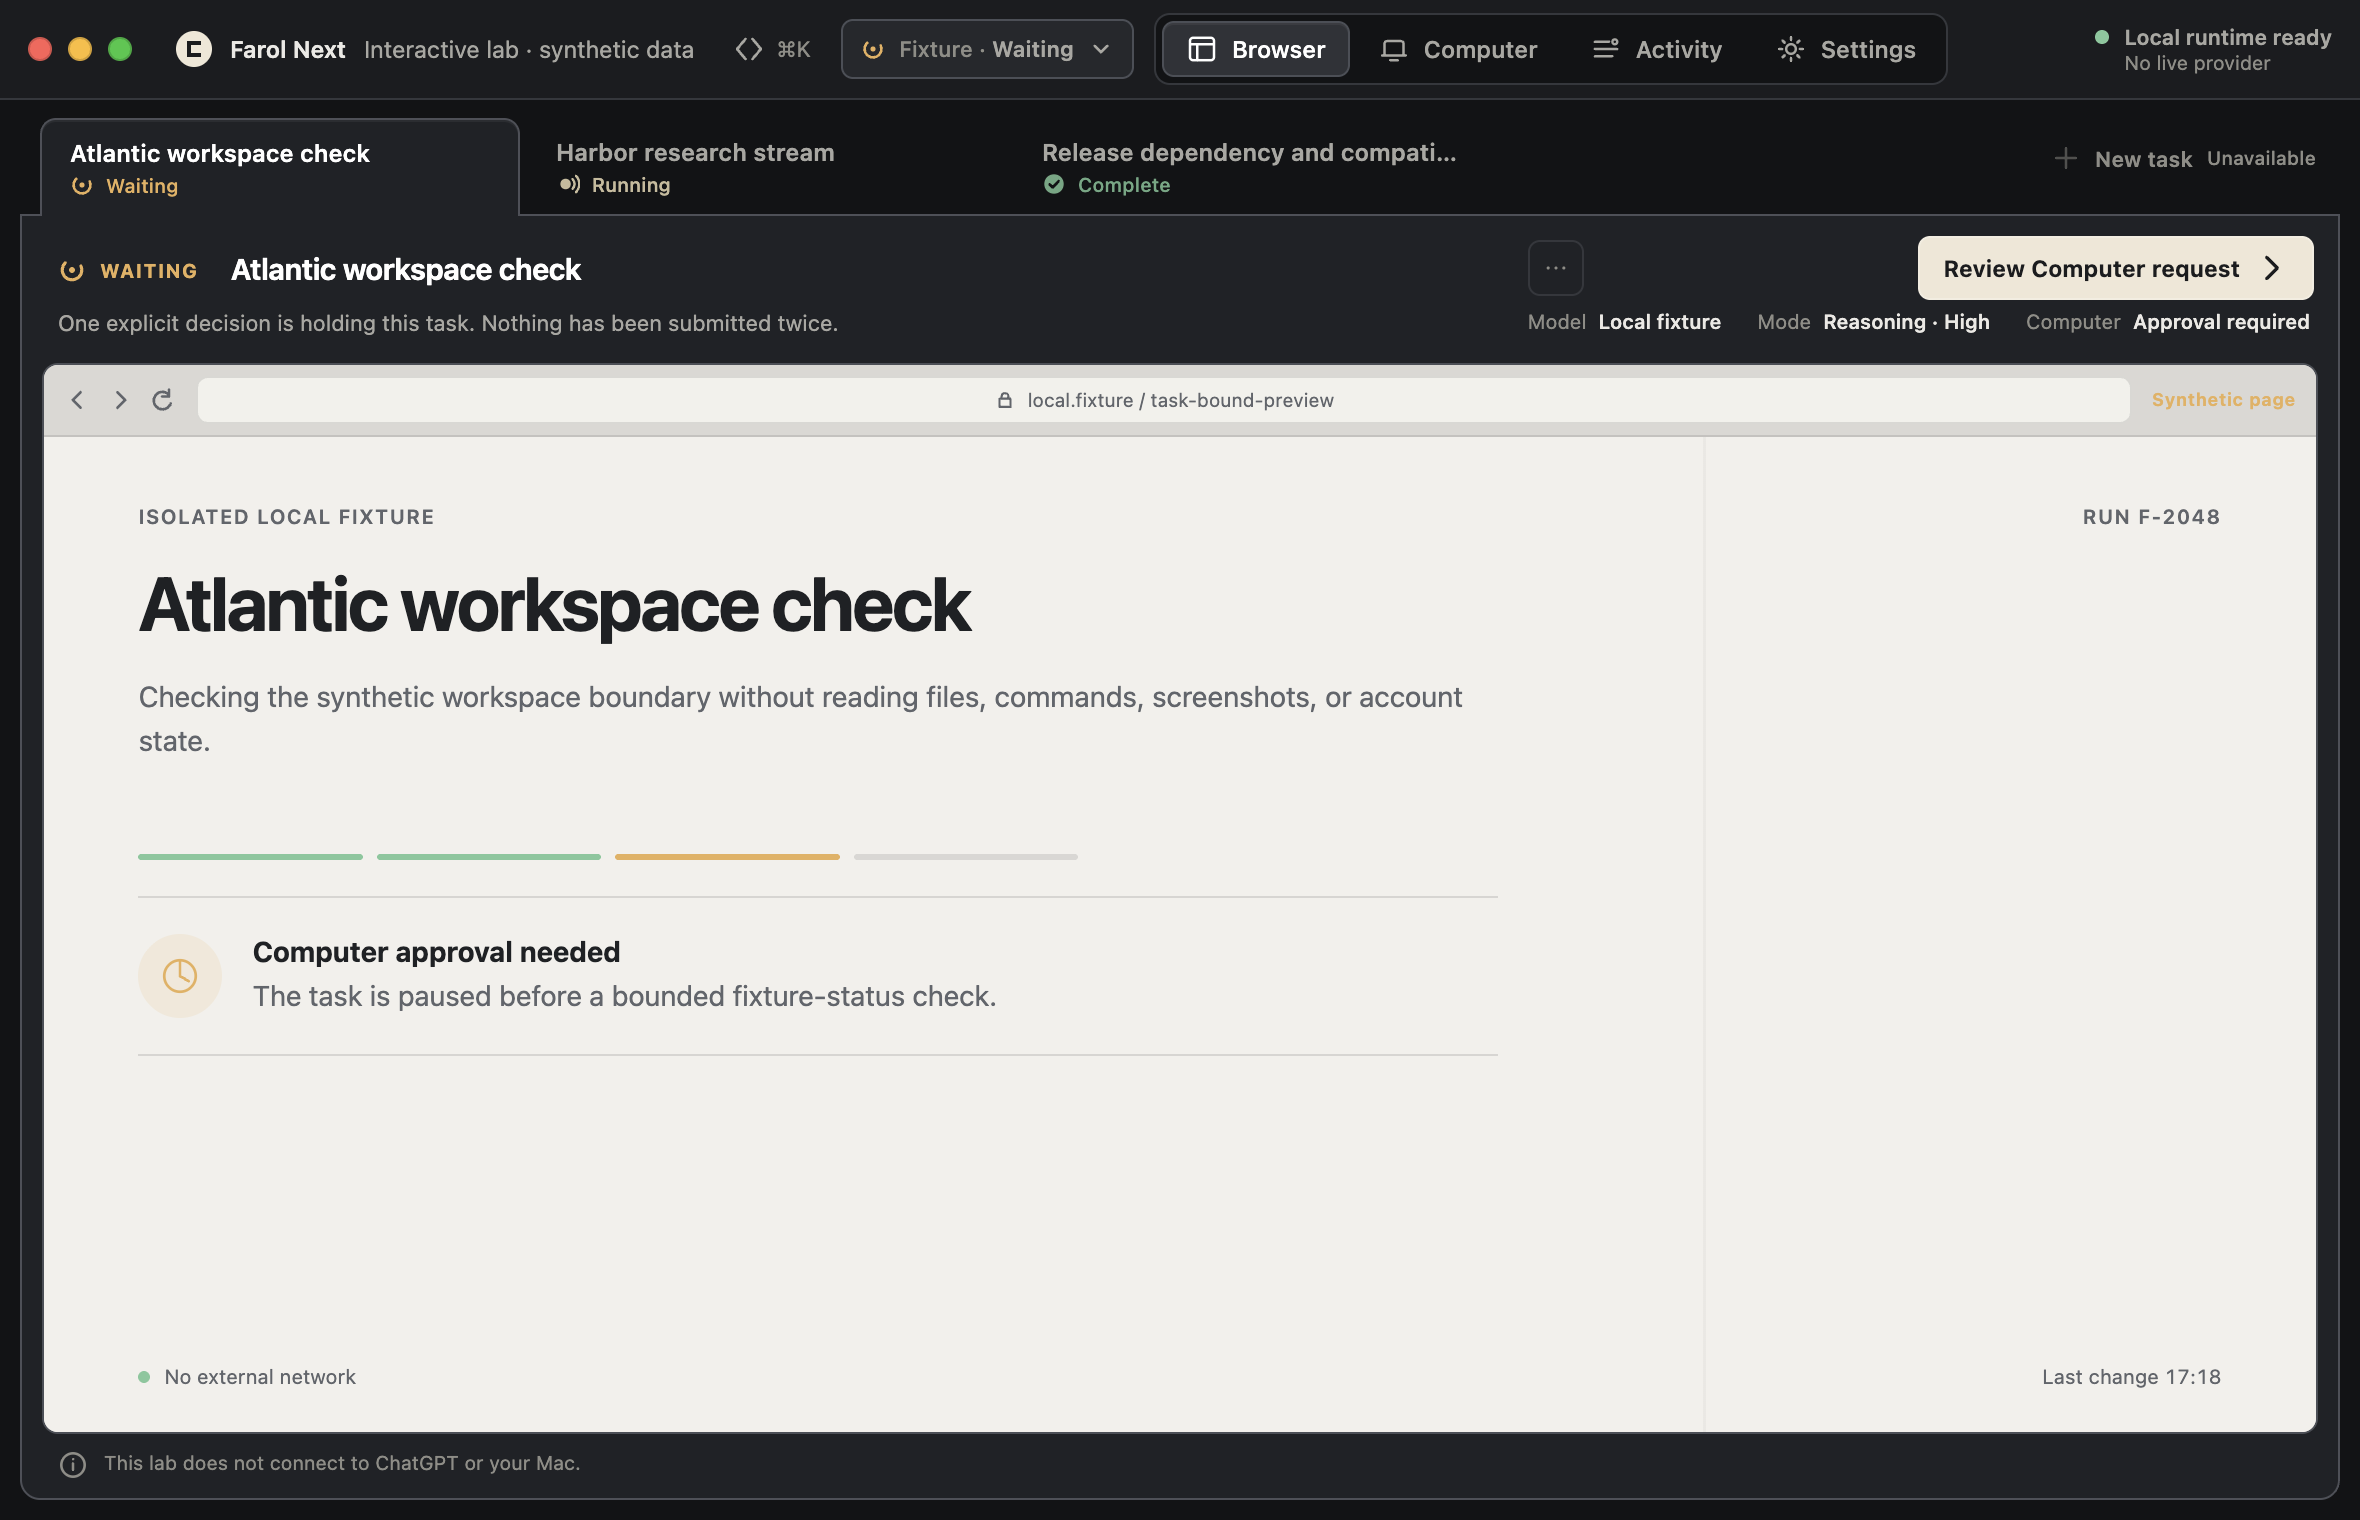
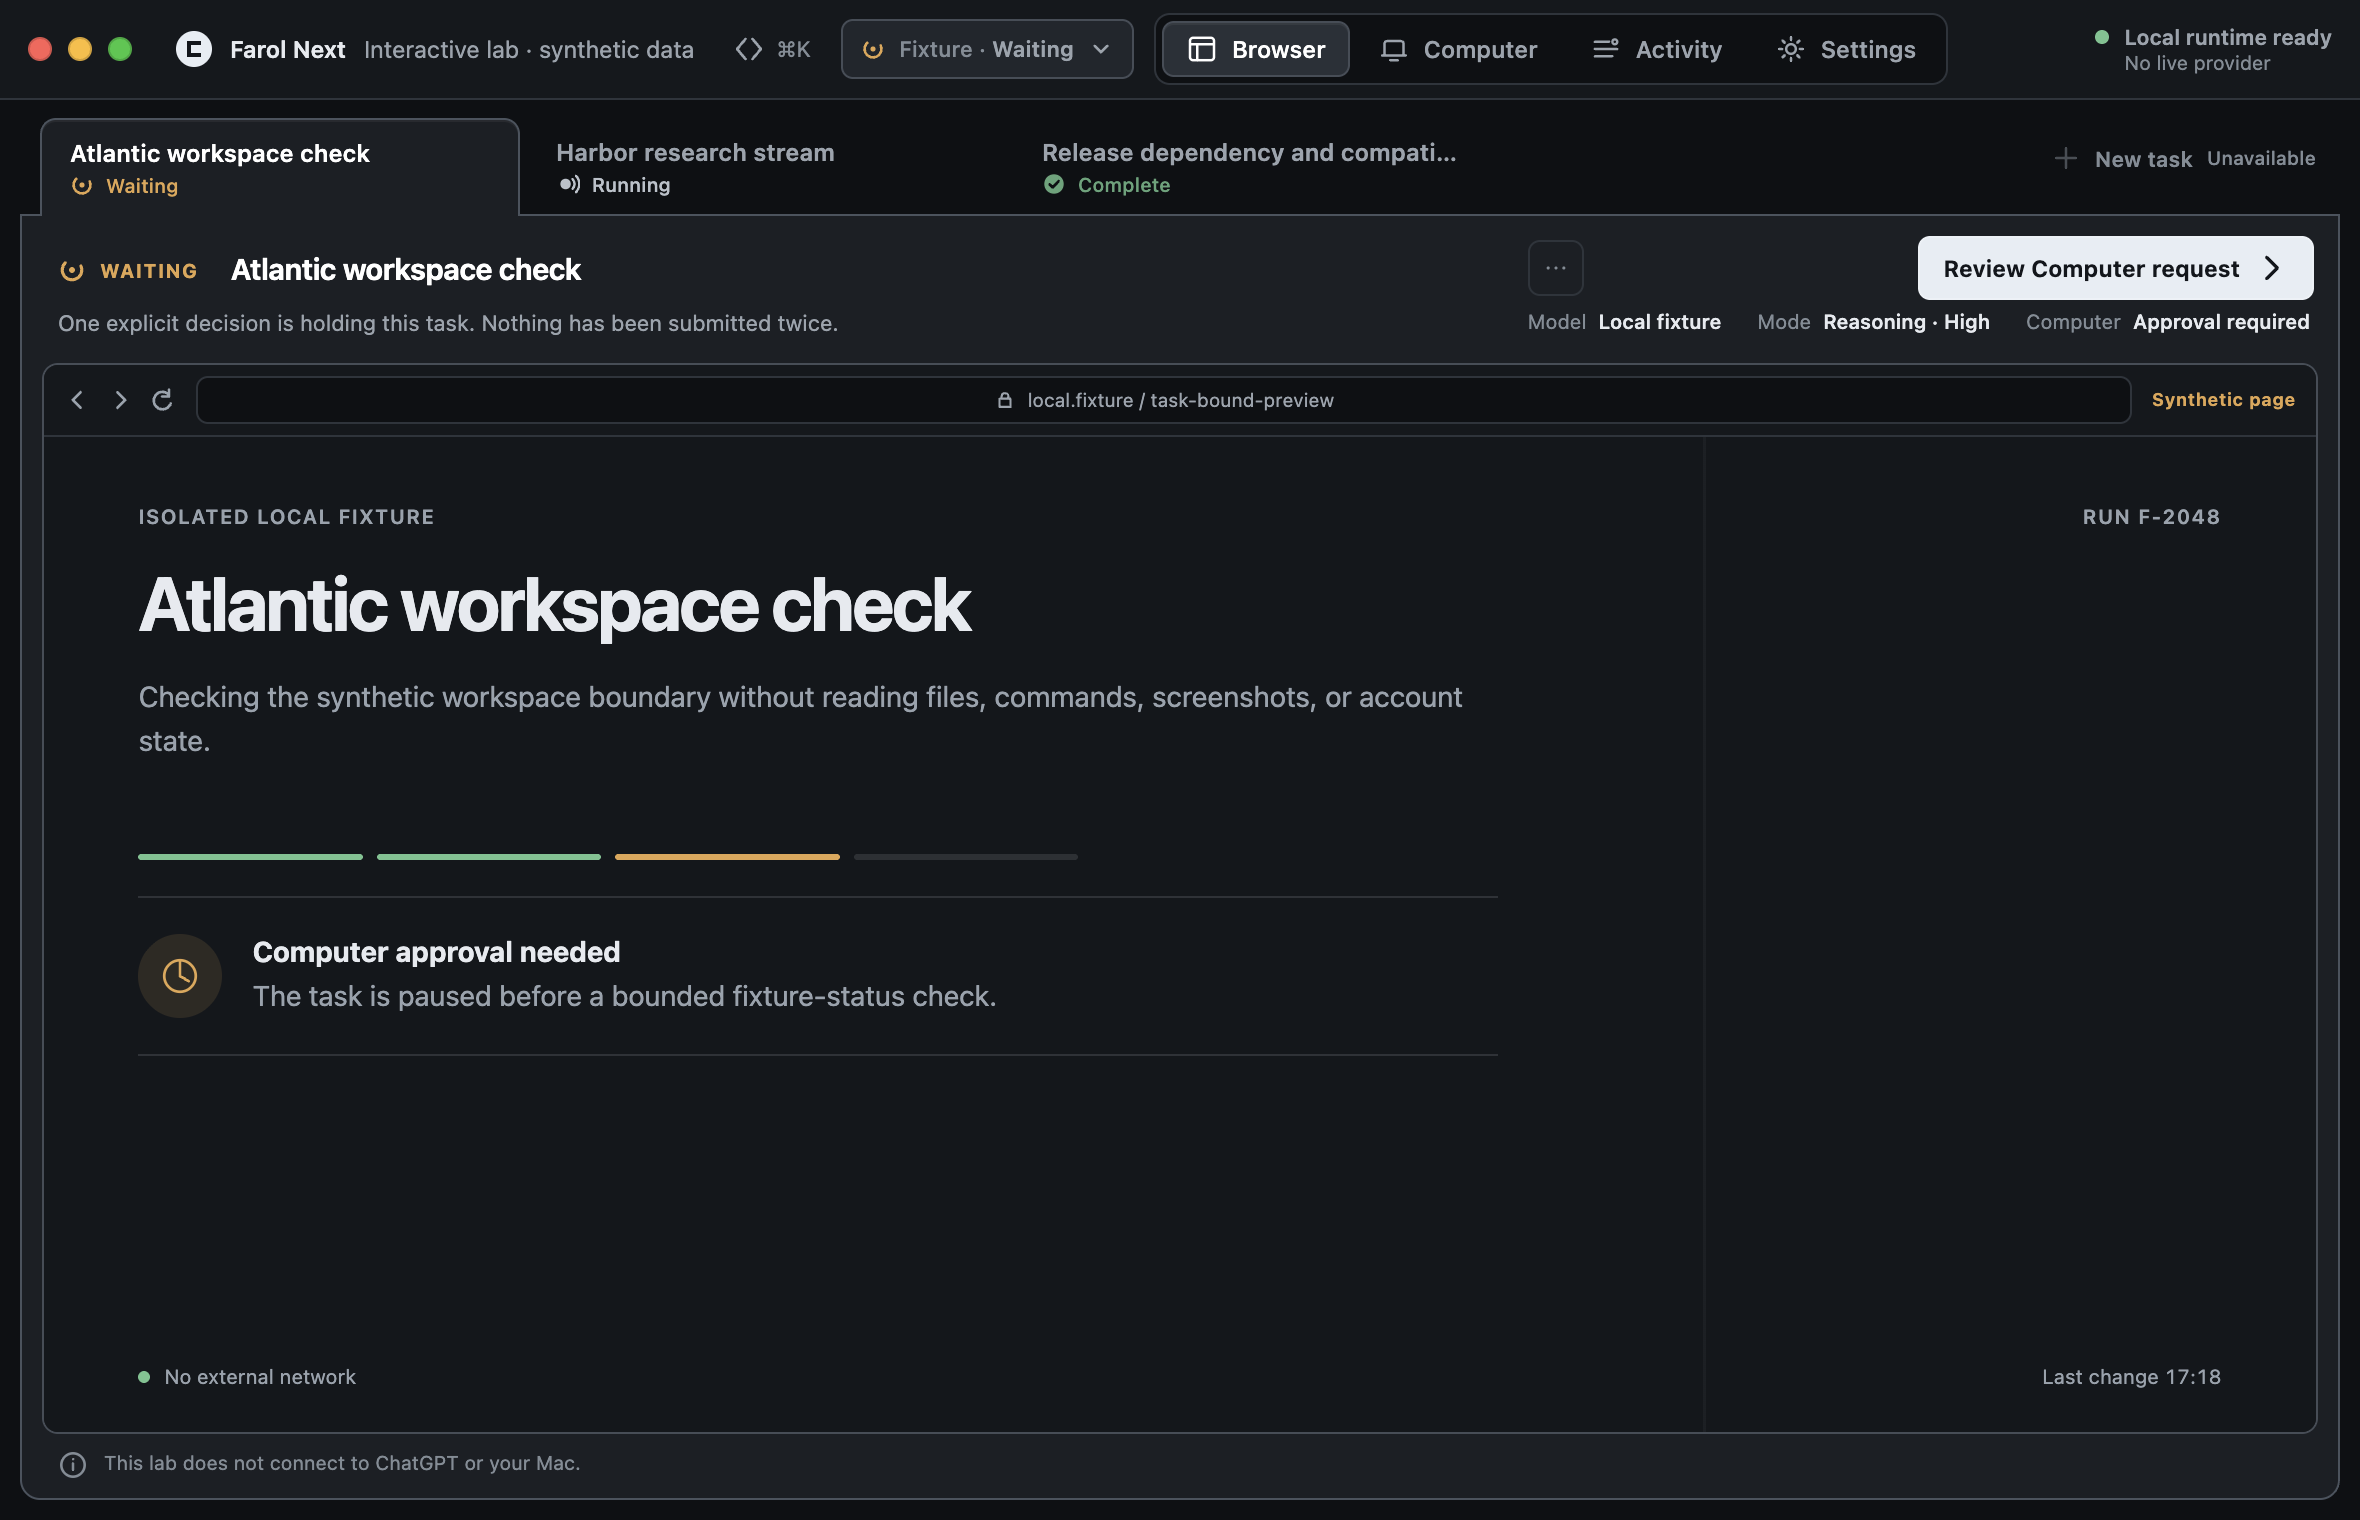
feat(vnext): retune Keeper's Slate to a cool dark graphite
The owner's second look rejected the warm, yellowish cast. Replace the warm
tokens with cool graphite, moonlight for the one forward action, a dark
task page, and matching gallery chrome. Composition, plate, lamps, and the
three baseline directions are unchanged.

diff --git a/design-lab/gallery.css b/design-lab/gallery.css
@@ -3,8 +3,8 @@
   font-family:
     -apple-system, BlinkMacSystemFont, "SF Pro Text", "Helvetica Neue",
     sans-serif;
-  background: #111214;
-  color: #ece9e3;
+  background: #0f1114;
+  color: #e6eaef;
   font-synthesis: none;
 }
 
@@ -18,10 +18,10 @@ body {
   background:
     radial-gradient(
       circle at 88% 0%,
-      rgba(236, 224, 196, 0.07),
+      rgba(200, 214, 232, 0.06),
       transparent 30rem
     ),
-    #111214;
+    #0f1114;
 }
 
 main {
@@ -41,7 +41,7 @@ main {
 .eyebrow,
 .direction-kind {
   margin: 0 0 10px;
-  color: #d3c6ab;
+  color: #b9c4d0;
   font-size: 11px;
   font-weight: 720;
   letter-spacing: 0.13em;
@@ -66,7 +66,7 @@ h1 {
 .intro {
   max-width: 760px;
   margin: 20px 0 0;
-  color: #aeaca6;
+  color: #a3abb4;
   font-size: 15px;
   line-height: 1.55;
 }
@@ -76,14 +76,14 @@ h1 {
   min-width: 240px;
   gap: 5px;
   padding: 18px 20px;
-  border: 1px solid rgba(236, 233, 227, 0.12);
+  border: 1px solid rgba(230, 234, 239, 0.12);
   border-radius: 15px;
-  background: rgba(236, 233, 227, 0.045);
+  background: rgba(230, 234, 239, 0.045);
 }
 
 .fixture-key span,
 .fixture-key small {
-  color: #8b8a84;
+  color: #848d96;
   font-size: 11px;
 }
 
@@ -105,16 +105,16 @@ h1 {
   column-gap: 24px;
   padding: 22px 22px 22px 24px;
   overflow: hidden;
-  border: 1px solid rgba(236, 233, 227, 0.11);
+  border: 1px solid rgba(230, 234, 239, 0.11);
   border-radius: 20px;
-  background: #1a1b1e;
+  background: #171a1e;
   box-shadow: 0 26px 60px rgba(0, 0, 0, 0.22);
 }
 
 .direction-card.is-candidate {
-  border-color: rgba(239, 231, 214, 0.42);
+  border-color: rgba(223, 232, 242, 0.42);
   box-shadow:
-    0 0 0 1px rgba(239, 231, 214, 0.06),
+    0 0 0 1px rgba(223, 232, 242, 0.06),
     0 28px 72px rgba(0, 0, 0, 0.28);
 }
 
@@ -128,7 +128,7 @@ h1 {
 }
 
 .direction-number {
-  color: rgba(236, 233, 227, 0.36);
+  color: rgba(230, 234, 239, 0.36);
   font:
     550 11px/1 ui-monospace,
     "SFMono-Regular",
@@ -155,9 +155,9 @@ h1 {
   margin-top: 3px;
   padding: 4px 8px;
   overflow: hidden;
-  border: 1px solid rgba(236, 233, 227, 0.13);
+  border: 1px solid rgba(230, 234, 239, 0.13);
   border-radius: 999px;
-  color: #a19f98;
+  color: #98a1aa;
   font-size: 9px;
   line-height: 1.3;
   text-overflow: ellipsis;
@@ -165,9 +165,9 @@ h1 {
 }
 
 .is-candidate .decision-tag {
-  border-color: rgba(239, 231, 214, 0.34);
-  background: rgba(239, 231, 214, 0.1);
-  color: #efe7d6;
+  border-color: rgba(223, 232, 242, 0.34);
+  background: rgba(223, 232, 242, 0.1);
+  color: #e7edf4;
 }
 
 .scene-pair {
@@ -190,27 +190,27 @@ h1 {
   align-items: center;
   justify-content: space-between;
   padding: 0 3px;
-  color: #8b8a84;
+  color: #848d96;
   font-size: 9px;
   letter-spacing: 0.08em;
   text-transform: uppercase;
 }
 
 .scene-label strong {
-  color: #c9c7c0;
+  color: #c3cad2;
   font-weight: 650;
 }
 
 .scene-label span {
-  color: #8b8a84;
+  color: #848d96;
 }
 
 .scene-preview:first-child .scene-label span {
-  color: #e3dcc9;
+  color: #dfe8f2;
 }
 
 .scene-preview:last-child .scene-label span {
-  color: #e7b05a;
+  color: #e2a54f;
 }
 
 .preview-shell {
@@ -218,9 +218,9 @@ h1 {
   width: 100%;
   min-height: 200px;
   overflow: hidden;
-  border: 1px solid rgba(236, 233, 227, 0.11);
+  border: 1px solid rgba(230, 234, 239, 0.11);
   border-radius: 12px;
-  background: #0f1012;
+  background: #0c0e11;
 }
 
 .preview-shell iframe {
@@ -242,7 +242,7 @@ h1 {
 
 .direction-notes > p {
   margin: 0 0 16px;
-  color: #b7b5ae;
+  color: #aeb6bf;
   font-size: 12px;
   line-height: 1.5;
 }
@@ -258,7 +258,7 @@ h1 {
   grid-template-columns: 62px minmax(0, 1fr);
   gap: 8px;
   padding-top: 8px;
-  border-top: 1px solid rgba(236, 233, 227, 0.09);
+  border-top: 1px solid rgba(230, 234, 239, 0.09);
 }
 
 .direction-notes dt,
@@ -269,11 +269,11 @@ h1 {
 }
 
 .direction-notes dt {
-  color: #7d7c76;
+  color: #7d8791;
 }
 
 .direction-notes dd {
-  color: #d6d3cc;
+  color: #d3d9e0;
 }
 
 .decision-boundary {
@@ -283,7 +283,7 @@ h1 {
   align-items: end;
   margin-top: 34px;
   padding: 26px 4px 0;
-  border-top: 1px solid rgba(236, 233, 227, 0.12);
+  border-top: 1px solid rgba(230, 234, 239, 0.12);
 }
 
 .decision-boundary h2 {
@@ -295,7 +295,7 @@ h1 {
 
 .decision-boundary > p {
   margin: 0;
-  color: #97958e;
+  color: #8f98a2;
   font-size: 12px;
   line-height: 1.55;
 }

diff --git a/design-lab/prototype.css b/design-lab/prototype.css
@@ -2698,38 +2698,38 @@ dialog::backdrop {
 html[data-direction="slate"] {
   --window-height: 50px;
   --task-height: 58px;
-  --bg: #121315;
-  --chrome: #1b1c1f;
-  --chrome-raised: #26282c;
-  --sidebar: #1b1c1f;
-  --surface: #202226;
-  --surface-raised: #26282d;
-  --surface-soft: #2f3237;
-  --line: #34373c;
-  --line-strong: #4b4f56;
-  --plate-edge: #4d5057;
-  --text: #ebe9e4;
+  --bg: #0e1013;
+  --chrome: #15181c;
+  --chrome-raised: #21262c;
+  --sidebar: #15181c;
+  --surface: #1b1f24;
+  --surface-raised: #21262c;
+  --surface-soft: #2a3038;
+  --line: #2e343b;
+  --line-strong: #454d57;
+  --plate-edge: #4a535e;
+  --text: #e6eaef;
   --text-strong: #ffffff;
-  --muted: #a8a7a1;
-  --quiet: #8e8d86;
-  --accent: #efe7d6;
-  --accent-ink: #1b1c1e;
-  --accent-soft: rgba(239, 231, 214, 0.1);
-  --success: #7ec89a;
-  --success-soft: rgba(126, 200, 154, 0.12);
-  --attention: #e7b05a;
-  --attention-soft: rgba(231, 176, 90, 0.13);
-  --danger: #e87b71;
-  --danger-soft: rgba(232, 123, 113, 0.13);
-  --lamp-running: #efdfb8;
-  --lamp-waiting: #e7b05a;
-  --lamp-complete: #7ec89a;
-  --lamp-failed: #e87b71;
-  --lamp-unavailable: #8b8e95;
-  --lamp-unknown: #e4ddd0;
-  --document-bg: #f2f0eb;
-  --document-ink: #1f2124;
-  --document-muted: #61656b;
+  --muted: #9aa3ad;
+  --quiet: #828c96;
+  --accent: #e7edf4;
+  --accent-ink: #12161b;
+  --accent-soft: rgba(231, 237, 244, 0.1);
+  --success: #6fc48f;
+  --success-soft: rgba(111, 196, 143, 0.12);
+  --attention: #e2a54f;
+  --attention-soft: rgba(226, 165, 79, 0.13);
+  --danger: #ee6f6a;
+  --danger-soft: rgba(238, 111, 106, 0.13);
+  --lamp-running: #dfe8f2;
+  --lamp-waiting: #e2a54f;
+  --lamp-complete: #6fc48f;
+  --lamp-failed: #ee6f6a;
+  --lamp-unavailable: #8a939d;
+  --lamp-unknown: #d9e2ec;
+  --document-bg: #14171b;
+  --document-ink: #e6eaef;
+  --document-muted: #98a2ad;
   --radius-control: 6px;
   --radius-panel: 10px;
   --radius-large: 14px;
@@ -3200,7 +3200,22 @@ html[data-direction="slate"] .browser-frame {
   margin: 0 10px;
   border-color: var(--line-strong);
   border-radius: 8px;
-  box-shadow: none;
+  box-shadow: inset 0 1px 0 rgba(255, 255, 255, 0.03);
+}
+
+html[data-direction="slate"] .browser-toolbar {
+  border-bottom-color: var(--line);
+  background: var(--chrome);
+}
+
+html[data-direction="slate"] .address-field {
+  border-color: var(--line);
+  background: var(--bg);
+  color: var(--muted);
+}
+
+html[data-direction="slate"] .browser-document {
+  scrollbar-color: var(--line-strong) transparent;
 }
 
 html[data-direction="slate"] .browser-document {
@@ -3403,10 +3418,11 @@ html[data-direction="slate"] .setup-content h1 {
 
 @media (prefers-contrast: more) {
   html[data-direction="slate"] {
-    --line: #5c6067;
-    --line-strong: #8a8f97;
-    --plate-edge: #9a9fa7;
-    --muted: #c8c7c1;
-    --quiet: #aeada6;
+    --line: #565e68;
+    --line-strong: #87919c;
+    --plate-edge: #97a1ac;
+    --muted: #c3cad2;
+    --quiet: #aab2bb;
+    --document-muted: #c3cad2;
   }
 }

diff --git a/design-lab/DESIGN.md b/design-lab/DESIGN.md
@@ -30,6 +30,11 @@ Recorded on 2026-09-15 after the first lab:
   ownable signature.
 - No direction is approved.
 
+After the first Keeper's Slate render (2026-09-15, same day) the owner added: the warm, yellowish
+cast of the lab is not wanted; darker and cooler designs are preferred. Keeper's Slate was
+therefore retuned to a cool graphite palette with a dark task page; its composition, plate, and
+lamps did not change.
+
 The brief for the fourth direction therefore was: graphite and neutral materials as the dominant
 field; green or teal never as identity or broad surface; one coherent Farol signature from
 composition, hierarchy, a task-state device, material, or interaction; a composition that is
@@ -52,7 +57,7 @@ architecture.
 ### Provisional candidate: Keeper's Slate
 
 Keeper's Slate answers the feedback without borrowing the earlier conclusions: its field is
-graphite, its only chroma is six small lifecycle lamps and one lamplight action, and its
+cool graphite, its only chroma is six small lifecycle lamps and one moonlight action, and its
 composition differs from every baseline. Studio Rail remains the conventional sidebar fallback;
 Beacon Field remains the shelf composition the owner found interesting; Operator Grid remains the
 density reference. The owner's decision is one choice among four.
@@ -108,21 +113,21 @@ lamps stay legible at standard density (see the `@1x` evidence).
 
 ### Visual grammar
 
-| Role          | Lab token                                                 | Use                                                              |
-| ------------- | --------------------------------------------------------- | ---------------------------------------------------------------- |
-| Type          | `-apple-system`, BlinkMacSystemFont, SF Pro Text fallback | All UI and document labels; compact scale, no display typography |
-| Window ground | `#121315`                                                 | The well behind the tabs and around the plate                    |
-| Title bar     | `#1b1c1f`                                                 | Unified title bar with identity, lab controls, sections, runtime |
-| Plate         | `#202226` with `#4d5057` edge                             | The selected task's surface; the selected tab shares both        |
-| Document      | `#f2f0eb` / `#1f2124`                                     | The task-bound Browser page inside the plate                     |
-| Lamplight     | `#efe7d6` on `#1b1c1e` ink                                | The one forward action, the brand mark, text selection           |
-| Lamps         | warm white, amber, green, red, grey, warm white           | Six small lifecycle glyphs; the only chroma besides lamplight    |
-| Focus         | `#79b3ff`, 2 px outline                                   | Keyboard location, independent of any state colour               |
-| Geometry      | 6 px controls, 8 px tab shoulders, 10 px plate corners    | One silhouette: square top edge under the tabs, rounded bottom   |
+| Role          | Lab token                                                 | Use                                                               |
+| ------------- | --------------------------------------------------------- | ----------------------------------------------------------------- |
+| Type          | `-apple-system`, BlinkMacSystemFont, SF Pro Text fallback | All UI and document labels; compact scale, no display typography  |
+| Window ground | `#0e1013`                                                 | The well behind the tabs and around the plate                     |
+| Title bar     | `#15181c`                                                 | Unified title bar with identity, lab controls, sections, runtime  |
+| Plate         | `#1b1f24` with `#4a535e` edge                             | The selected task's surface; the selected tab shares both         |
+| Document      | `#14171b` / `#e6eaef`                                     | The task-bound Browser page inside the plate, as dark as the tool |
+| Moonlight     | `#e7edf4` on `#12161b` ink                                | The one forward action, the brand mark, text selection            |
+| Lamps         | cool white, amber, green, red, grey, cool white           | Six small lifecycle glyphs; the only chroma besides moonlight     |
+| Focus         | `#79b3ff`, 2 px outline                                   | Keyboard location, independent of any state colour                |
+| Geometry      | 6 px controls, 8 px tab shoulders, 10 px plate corners    | One silhouette: square top edge under the tabs, rounded bottom    |
 
-Green appears only on the `Complete` lamp and the runtime-ready dot; teal does not appear.
-Measured contrast on the plate: body text 13.1:1, muted 6.6:1, quiet 4.9:1, lamps 4.9:1 to
-12.1:1, lamplight action ink 13.9:1.
+Green appears only on the `Complete` lamp and the runtime-ready dot; teal does not appear, and
+nothing warm-tinted covers a large surface. Measured contrast on the plate: body text 13.7:1,
+muted 6.5:1, quiet 4.8:1, lamps 5.3:1 to 13.4:1, moonlight action ink 15.4:1.
 
 ### Composition
 
